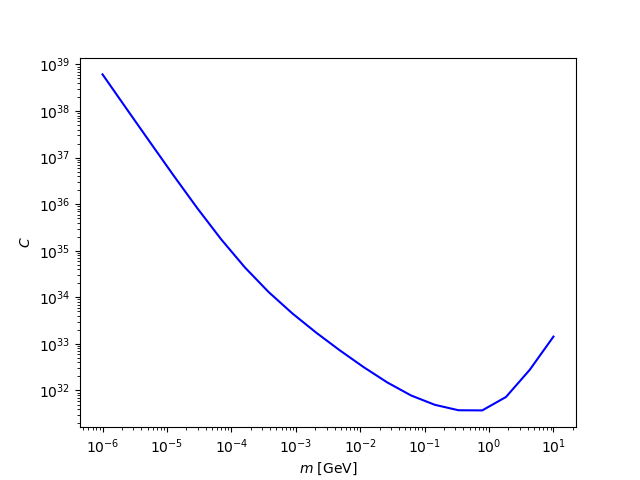
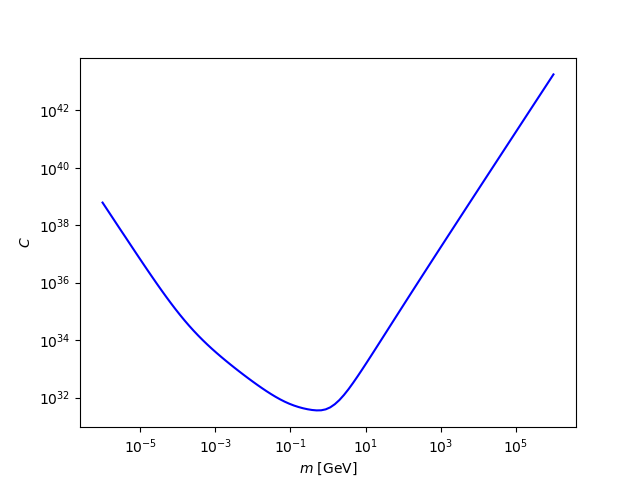
ok

diff --git a/cap_c/monte_carlo/MC_cap.c b/cap_c/monte_carlo/MC_cap.c
@@ -48,14 +48,14 @@ double rate_integral(double dm, double radius, int npts){
   T = gsl_rng_default;
   r = gsl_rng_alloc (T);
 
-  // {
-  //   gsl_monte_plain_state *s = gsl_monte_plain_alloc (3);
-  //   gsl_monte_plain_integrate (&G, xl, xu, 3, calls, r, s,
-  //                              &res, &err);
-  //   gsl_monte_plain_free (s);
-  //
-  //   // display_results ("plain", res, err);
-  // }
+  {
+    gsl_monte_plain_state *s = gsl_monte_plain_alloc (3);
+    gsl_monte_plain_integrate (&G, xl, xu, 3, calls, r, s,
+                               &res, &err);
+    gsl_monte_plain_free (s);
+
+    // display_results ("plain", res, err);
+  }
 
   // {
   //   gsl_monte_miser_state *s = gsl_monte_miser_alloc (3);
@@ -66,28 +66,28 @@ double rate_integral(double dm, double radius, int npts){
   //   display_results ("miser", res, err);
   // }
   //
-  {
-    gsl_monte_vegas_state *s = gsl_monte_vegas_alloc (3);
-
-    gsl_monte_vegas_integrate (&G, xl, xu, 3, 100000, r, s,
-                               &res, &err);
-    // display_results ("vegas warm-up", res, err);
-
-    // printf ("converging...\n");
-
-    do
-      {
-        gsl_monte_vegas_integrate (&G, xl, xu, 3, calls/5, r, s,
-                                   &res, &err);
-        // printf ("result = % .6e sigma = % .6f "
-        //         "chisq/dof = %.1e\n", res, err, gsl_monte_vegas_chisq (s));
-      }
-    while (fabs (gsl_monte_vegas_chisq (s) - 1.0) > 0.5);
-
-    // display_results ("vegas final", res, err);
-
-    gsl_monte_vegas_free (s);
-  }
+  // {
+  //   gsl_monte_vegas_state *s = gsl_monte_vegas_alloc (3);
+  //
+  //   gsl_monte_vegas_integrate (&G, xl, xu, 3, 100000, r, s,
+  //                              &res, &err);
+  //   // display_results ("vegas warm-up", res, err);
+  //
+  //   // printf ("converging...\n");
+  //
+  //   do
+  //     {
+  //       gsl_monte_vegas_integrate (&G, xl, xu, 3, calls/5, r, s,
+  //                                  &res, &err);
+  //       // printf ("result = % .6e sigma = % .6f "
+  //       //         "chisq/dof = %.1e\n", res, err, gsl_monte_vegas_chisq (s));
+  //     }
+  //   while (fabs (gsl_monte_vegas_chisq (s) - 1.0) > 0.5);
+  //
+  //   // display_results ("vegas final", res, err);
+  //
+  //   gsl_monte_vegas_free (s);
+  // }
 
   gsl_rng_free (r);
 
@@ -114,7 +114,7 @@ double r_integrand(double x, void *p){
 
 double all_integrals(double dm, int npoints){
 
-    size_t calls = 5000;
+    size_t calls = 500;
 
     gsl_integration_workspace * w = gsl_integration_workspace_alloc (calls);
 
@@ -130,7 +130,7 @@ double all_integrals(double dm, int npoints){
     F.function = &r_integrand;
     F.params = &params2; // {function, dimension, params}
 
-    
+
     gsl_integration_qags (&F, 1e-2 , 11.0 , 0.0 , 1e-7, calls, w, &res, &err );
 
 
@@ -200,21 +200,21 @@ int main ()
     // printf("%0.10E\n", test);
 
      int i;
-    
+
      int range = 100;
      double mass_vals[range];
-    
+
      logspace(-6, 6, range, mass_vals);
-    
-    
+
+
      FILE *outfile = fopen("cap_rate_MC.dat", "w");
-    
+
      for (i = 0; i < range; i++){
-    
+
      fprintf(outfile,"%0.10E\t%.10E\n", mass_vals[i], rate_integral( mass_vals[i], 11, npts ) );
-    
+
      }
-    
+
      fclose(outfile);
 
     return 0;

diff --git a/cap_c/monte_carlo/cap_funcs.c b/cap_c/monte_carlo/cap_funcs.c
@@ -126,13 +126,13 @@ for double int: s = x[0], t = x[1]
 for tripple int: v = x[0], s = x[1], t = x[2]
 */
 double tbound( double dm, double radius, int npts){
-    return 1.05 * sqrt( (SOL * SOL * FERMI_VEL(radius, npts) + mu(dm) * esc_vel(radius, npts) * esc_vel(radius, npts)) / ( 2.0 * mu(dm) * mu_plus(dm) ) );
+    return 1.5 * sqrt( (SOL * SOL * FERMI_VEL(radius, npts) + mu(dm) * esc_vel(radius, npts) * esc_vel(radius, npts)) / ( 2.0 * mu(dm) * mu_plus(dm) ) );
 }
 
 //=========================================================
 
 double sbound( double dm, double radius, int npts){
-    return 1.05 * sqrt( (SOL * SOL * FERMI_VEL(radius, npts) + mu(dm) * esc_vel(radius, npts) * esc_vel(radius, npts) )/ ( 2.0 * mu(dm) ) );
+    return 1.5 * sqrt( (SOL * SOL * FERMI_VEL(radius, npts) + mu(dm) * esc_vel(radius, npts) * esc_vel(radius, npts) )/ ( 2.0 * mu(dm) ) );
 }
 
 //=========================================================
